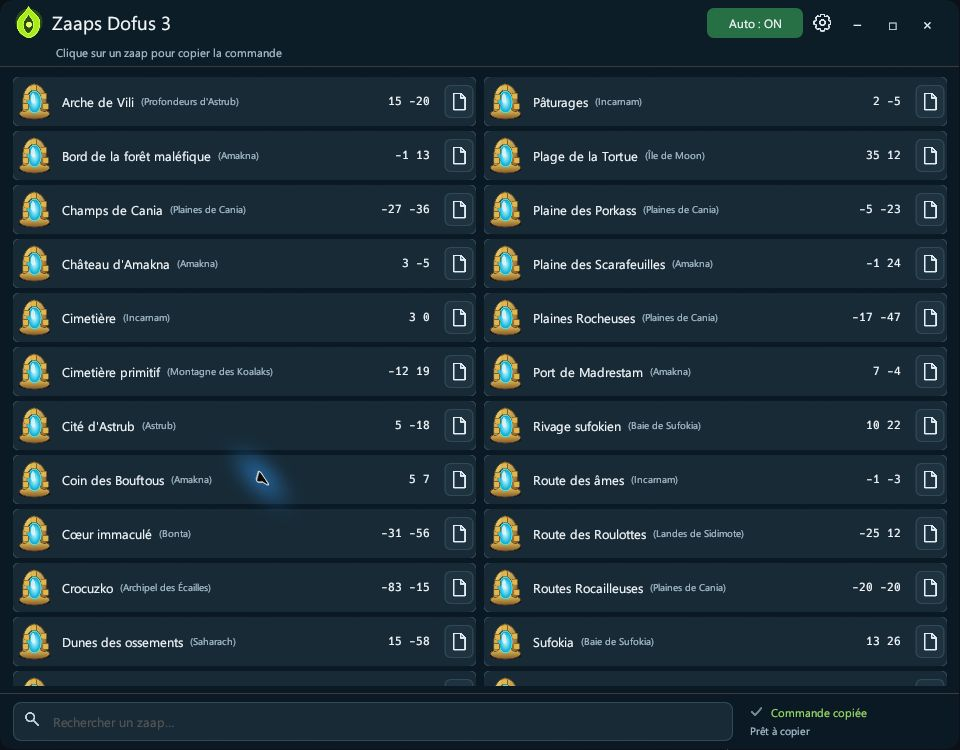
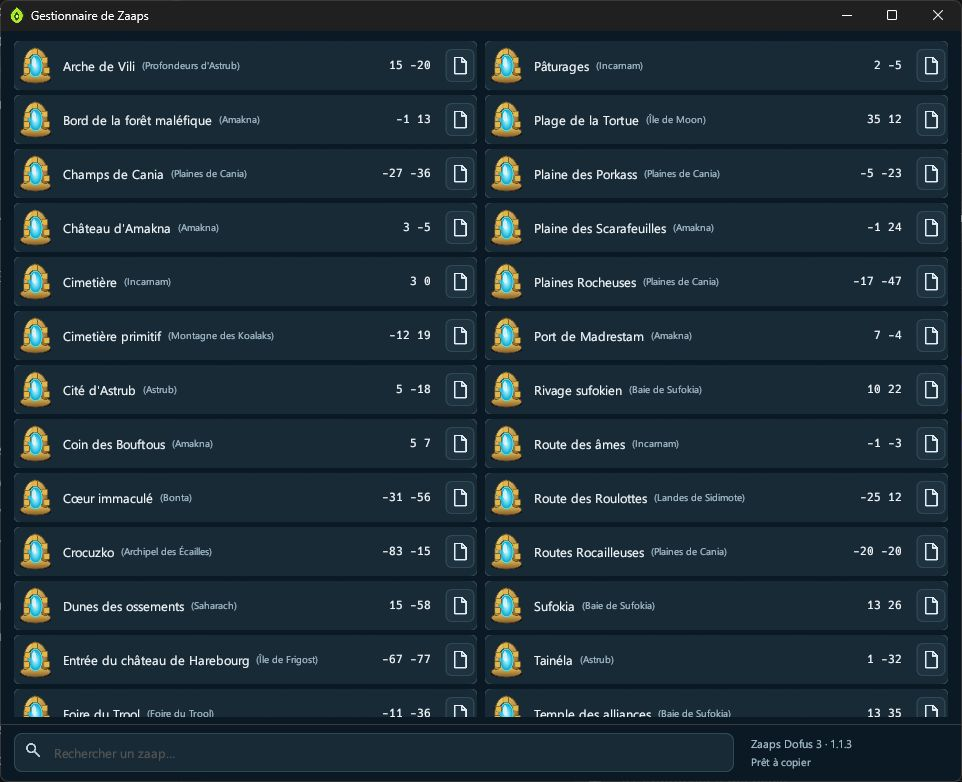
Actualiser la présentation, les captures et les guides Windows pour la version 1.1.3

diff --git a/docs/UTILISATION.md b/docs/UTILISATION.md
@@ -1,0 +1,101 @@
+# Utiliser Zaaps Dofus 3
+
+[Téléchargements Windows](https://github.com/molow159-boop/zaaps-dofus3/releases/latest) · [Présentation](../README.md) · [Compiler soi-même](COMPILATION.md)
+
+## Premier lancement
+
+1. Téléchargez **Zaaps-Dofus3-1.1.3-Windows-x64.zip** et extrayez entièrement l'archive dans le dossier de votre choix.
+2. Ouvrez Ganymède sur votre guide.
+3. Lancez **Zaaps Dofus 3.exe**. Rust n'est pas nécessaire pour utiliser cet exécutable.
+4. Vérifiez le numéro d'étape, le Zaap et la destination affichés dans le compagnon.
+5. Cliquez sur un bouton de copie, puis collez la commande dans Dofus.
+
+![Le compagnon compact et ses trois boutons de copie](../assets/screenshots/compact.jpg)
+
+Les commandes sont copiées dans le presse-papiers. Leur utilisation dans Dofus reste manuelle.
+
+## Copier le trajet de l'étape
+
+| Bouton | Raccourci par défaut | Résultat |
+| --- | --- | --- |
+| **Zaap** | **Ctrl+J** | `/zaap X,Y` pour le Zaap recommandé. |
+| **Travel** | **Ctrl+K** | `/travel X Y` vers la destination reconnue. |
+| **Trajet complet** | **Ctrl+L** | Double `/zaap`, puis `/travel` lorsqu'un Zaap réel et une destination sont disponibles. |
+
+Avec un Zaapi seul, ou des coordonnées sans Zaap, le trajet complet contient uniquement le `/travel` exploitable. Sans destination utilisable, aucune commande n'est copiée. Un bouton grisé indique que les données nécessaires ne sont pas disponibles.
+
+Pour une prochaine destination annoncée en Enutrosor, Srambad, Xélorium, Ecaflipus ou Osavora, le trajet prépare l'accès à la Tour des Voyageurs Dimensionnels :
+
+```text
+/zaap -20,-20; /zaap -20,-20; /travel -22 -24
+```
+
+## Activer la copie automatique
+
+Cliquez sur **Auto** ou utilisez **Ctrl+Shift+A**. Lorsque le bouton indique **Auto : ON**, une nouvelle étape reconnue et confirmée déclenche une seule copie du trajet disponible.
+
+L'étape présente à l'activation sert de référence : elle n'est pas copiée immédiatement. Vous pouvez toujours demander sa commande avec les boutons de copie. Une étape sans destination exploitable ne produit aucune copie.
+
+## Accrocher le compagnon à Ganymède
+
+1. Ouvrez les réglages avec l'engrenage.
+2. Cochez **Accrocher à Ganymède**.
+3. Choisissez **En haut**, **En bas**, **À gauche** ou **À droite**, puis cliquez sur **Enregistrer**.
+
+Déplacer l'une des fenêtres entraîne l'autre. Les bords visibles restent accolés. En haut et en bas, Zaaps suit la largeur de Ganymède ; redimensionnez Ganymède pour ajuster cette largeur et le bord supérieur ou inférieur de Zaaps pour sa hauteur. Sur les côtés, les fenêtres s'alignent en haut et le compagnon conserve sa taille compacte.
+
+La vue accrochée démarre à environ 225 pixels de haut. **Afficher Zaaps** ouvre le gestionnaire à part. Les réglages et le diagnostic s'ouvrent également dans leurs propres fenêtres.
+
+Pour séparer les fenêtres, décochez l'accrochage dans les réglages et enregistrez. Le côté et l'option sont mémorisés. La taille de Ganymède n'est pas modifiée par le logiciel.
+
+L'accrochage se met en pause si une fenêtre est masquée, réduite ou maximisée. S'il manque de la place à l'écran, choisissez un autre côté ou réduisez les fenêtres. Si Ganymède est trop étroit pour les commandes, élargissez-le.
+
+## Retrouver un Zaap dans la liste
+
+Cliquez sur **Afficher Zaaps** dans le compagnon accroché. Sans accrochage, **Afficher les 45 Zaaps** déplie la liste dans la fenêtre principale ; **Revenir au mode compact** la replie.
+
+![Le gestionnaire indépendant des 45 Zaaps](../assets/screenshots/interface.jpg)
+
+La recherche accepte un nom, une région ou des coordonnées. Cliquer sur une ligne ou son icône de copie prépare la commande de ce Zaap. Le nombre de colonnes s'adapte à la largeur de la fenêtre.
+
+![Recherche par nom ou région : Astrub](../assets/screenshots/recherche.jpg)
+
+Fermer le gestionnaire indépendant laisse le compagnon, les raccourcis et Auto actifs.
+
+## Personnaliser les touches et les confirmations
+
+Dans les réglages, cliquez sur une action puis appuyez sur la combinaison souhaitée. Choisissez cinq raccourcis différents, puis **Enregistrer**. **Annuler** conserve les réglages précédents.
+
+![Exemple de raccourcis personnalisés et choix de l'accrochage](../assets/screenshots/reglages-raccourcis.jpg)
+
+Les deux raccourcis supplémentaires sont **Ctrl+Shift+A** pour Auto et **Ctrl+Shift+Z** pour afficher ou masquer la fenêtre. Pendant la configuration, les raccourcis et la copie automatique sont suspendus jusqu'à la fermeture des réglages.
+
+![Options de confirmation et de démarrage](../assets/screenshots/reglages-confort.jpg)
+
+Choisissez une confirmation **visuelle**, un **son léger** ou le **silence**. Les notifications visuelles suivent les paramètres de Windows.
+
+La surveillance du presse-papiers signale lorsqu'une autre copie remplace la commande. Le logiciel ne restaure jamais une ancienne commande automatiquement : utilisez **Trajet complet** dans la vue accrochée, ou **Recopier le trajet courant** dans la vue compacte normale, pour demander les données de l'étape actuelle.
+
+## Réduire près de l'horloge
+
+Le bouton **−** masque le compagnon près de l'horloge, en gardant les raccourcis et Auto actifs. Cliquez sur l'icône pour le retrouver, ou utilisez **Ctrl+Shift+Z**. Le clic droit propose l'affichage, Auto, la copie du trajet courant et **Quitter**.
+
+Le bouton **×** de la fenêtre principale quitte complètement le logiciel. Si l'icône de notification est indisponible, la réduction passe par la barre des tâches.
+
+Le **lancement avec Windows** est facultatif et désactivé par défaut. Activez-le après avoir placé le dossier à son emplacement définitif : le logiciel démarrera réduit près de l'horloge. Après un déplacement du dossier, enregistrez à nouveau les réglages pour actualiser le chemin de démarrage.
+
+## Installer une nouvelle version
+
+La vérification de version consulte GitHub au lancement puis toutes les six heures lorsqu'elle est activée. Elle signale une nouvelle Release stable et donne son lien de téléchargement ; aucun fichier n'est installé automatiquement. Vous pouvez aussi utiliser **Vérifier la version maintenant** dans les réglages.
+
+1. Téléchargez le nouveau ZIP Windows depuis les [Releases](https://github.com/molow159-boop/zaaps-dofus3/releases/latest).
+2. Quittez l'ancien Zaaps avec **×** ou **Quitter**. Ganymède peut rester ouvert.
+3. Extrayez le nouveau dossier, puis lancez son exécutable.
+
+Les préférences restent dans `%APPDATA%\Zaaps Dofus 3\raccourcis.ini`. Si vous utilisez un `zaaps.csv` personnalisé à côté de l'exécutable, conservez-le lors du remplacement du dossier.
+
+## Signaler une difficulté
+
+Dans les réglages, **Diagnostic — aperçu avant partage** ouvre un résumé modifiable. Dans la vue normale, le bouton **Diagnostic** est aussi disponible directement. Vérifiez l'aperçu avant de le copier dans une [Issue](https://github.com/molow159-boop/zaaps-dofus3/issues).
+
+Le résumé n'inclut ni le texte complet du guide ni le contenu remplacé du presse-papiers. Aucun diagnostic n'est envoyé automatiquement.

diff --git a/README.md b/README.md
@@ -17,12 +17,20 @@
   &nbsp; · &nbsp;
   <a href="#prise-en-main">Prise en main</a>
   &nbsp; · &nbsp;
+  <a href="docs/UTILISATION.md">Guide d'utilisation</a>
+  &nbsp; · &nbsp;
+  <a href="docs/COMPILATION.md">Compiler soi-même</a>
+  &nbsp; · &nbsp;
   <a href="https://github.com/molow159-boop/zaaps-dofus3/issues">Signaler un problème</a>
 </p>
 
 Retrouvez un zaap, préparez votre déplacement et copiez votre trajet sans ressaisir les coordonnées. **Zaaps Dofus 3** est un utilitaire portable en Rust pour **Windows 10/11 x64**, conçu pour accompagner les étapes affichées dans **Ganymède**.
 
-![Interface de Zaaps Dofus 3 : liste des zaaps et mode automatique activé](assets/screenshots/interface.jpg)
+<p align="center">
+  <img src="assets/screenshots/compact.jpg" alt="Vue compacte : étape reconnue, Zaap de Pandala, destination et boutons de copie" width="414">
+</p>
+
+Le compagnon reste discret à côté de Ganymède. **Afficher Zaaps** ouvre le gestionnaire dans une fenêtre séparée ; l'engrenage donne accès aux réglages.
 
 ## L'essentiel, dans une seule fenêtre
 
@@ -31,7 +39,7 @@ Retrouvez un zaap, préparez votre déplacement et copiez votre trajet sans ress
 | **45 zaaps intégrés** | Parcourez la liste et copiez une commande en un clic. |
 | **Recherche immédiate** | Retrouvez un zaap par son nom ou sa région. |
 | **Trajets Ganymède** | Récupérez le Zaap recommandé et les coordonnées de destination. |
-| **Cinq raccourcis configurables** | Choisissez vos touches pour le Zaap, le voyage et le trajet complet. |
+| **Cinq raccourcis configurables** | Choisissez vos touches pour les trois copies, Auto et l'affichage de la fenêtre. |
 | **Mode automatique** | Copiez une fois le trajet à chaque nouvelle étape reconnue. |
 | **Interface adaptable** | Redimensionnez librement la fenêtre ; les colonnes s'ajustent à sa largeur. |
 | **Mode compact mémorisé** | Gardez seulement l'étape, le trajet et les boutons de copie ; dépliez la liste au besoin. |
@@ -42,10 +50,15 @@ Retrouvez un zaap, préparez votre déplacement et copiez votre trajet sans ress
 
 ## En images
 
-| Recherche rapide | Raccourcis personnalisables |
+| Gestionnaire indépendant | Recherche rapide |
 | :---: | :---: |
-| [![Recherche des zaaps liés à Astrub](assets/screenshots/recherche.jpg)](assets/screenshots/recherche.jpg) | [![Réglages des trois raccourcis Ganymède](assets/screenshots/raccourcis.jpg)](assets/screenshots/raccourcis.jpg) |
-| Un nom ou une région suffit pour filtrer la liste. | Ctrl+J, Ctrl+K et Ctrl+L par défaut, modifiables dans les réglages. |
+| [![Gestionnaire des 45 Zaaps, version 1.1.3](assets/screenshots/interface.jpg)](assets/screenshots/interface.jpg) | [![Recherche des Zaaps liés à Astrub](assets/screenshots/recherche.jpg)](assets/screenshots/recherche.jpg) |
+| La liste complète s'ouvre sans agrandir le compagnon accroché. | Filtrez par nom, région ou coordonnées. |
+
+| Raccourcis et accrochage | Options de confort |
+| :---: | :---: |
+| [![Cinq raccourcis personnalisables et choix du côté d'accrochage](assets/screenshots/reglages-raccourcis.jpg)](assets/screenshots/reglages-raccourcis.jpg) | [![Son, presse-papiers, démarrage Windows et nouvelles versions](assets/screenshots/reglages-confort.jpg)](assets/screenshots/reglages-confort.jpg) |
+| Exemple de touches personnalisées ; les raccourcis par défaut figurent ci-dessous. | Choisissez les confirmations et les fonctions à activer. |
 
 ## Prise en main
 
@@ -53,7 +66,11 @@ Retrouvez un zaap, préparez votre déplacement et copiez votre trajet sans ress
 2. Ouvrez Ganymède sur votre guide, puis lancez **Zaaps Dofus 3.exe**.
 3. Cliquez sur un zaap ou utilisez un raccourci, puis collez la commande dans Dofus.
 
+Pour garder le compagnon au premier plan de votre guide, ouvrez l'engrenage, activez **Accrocher à Ganymède**, choisissez le côté et enregistrez. Le bouton **Afficher Zaaps** reste disponible pour retrouver la liste.
+
 **Aucune installation de Rust n'est nécessaire.** Le logiciel copie les commandes dans le presse-papiers ; vous gardez la main sur leur utilisation dans Dofus.
+
+Le [guide d'utilisation](docs/UTILISATION.md) détaille les boutons, l'accrochage, Auto, les réglages et les mises à jour. Les **sources complètes** sont consultables ici dans le dépôt et disponibles dans **Zaaps-Dofus3-1.1.3-Sources.zip** sur la Release.
 
 ## Vos raccourcis
 
@@ -69,7 +86,7 @@ Ouvrez les réglages avec l'icône d'engrenage pour personnaliser les touches. V
 
 ## Une présence discrète pendant vos guides
 
-La vue compacte affiche le numéro d'étape reconnu, le Zaap et la destination. Les boutons **Zaap**, **Travel** et **Trajet complet** utilisent les mêmes données vérifiées que les raccourcis. **Afficher les 45 Zaaps** ouvre le gestionnaire avec sa recherche ; **Revenir au mode compact** replie la liste. Le mode choisi est mémorisé.
+La vue compacte affiche le numéro d'étape reconnu, le Zaap et la destination. Les boutons **Zaap**, **Travel** et **Trajet complet** utilisent les mêmes données vérifiées que les raccourcis. Sans accrochage, **Afficher les 45 Zaaps** déplie la liste avec sa recherche ; **Revenir au mode compact** la replie. Le mode choisi est mémorisé.
 
 Pour réunir les deux fenêtres, cochez **Accrocher à Ganymède** et choisissez **En haut**, **En bas**, **À gauche** ou **À droite**. Le côté décrit la position de Zaaps par rapport à Ganymède. Déplacer l'une déplace l'autre ; les bords visibles restent accolés, sans l'espace des bordures invisibles de Windows. En haut et en bas, Zaaps prend automatiquement la largeur de Ganymède : redimensionnez Ganymède pour ajuster cette largeur et les bords de Zaaps pour sa hauteur. Sur les côtés, le haut des fenêtres est aligné et Zaaps conserve sa taille compacte. La taille de Ganymède n'est pas modifiée par l'accrochage. L'option et le côté sont mémorisés ; décochez l'option pour séparer les fenêtres.
 
@@ -124,8 +141,7 @@ L'exécutable n'est pas signé numériquement. Le fichier `SHA256.txt` de la Rel
 
 </details>
 
-<details>
-<summary><strong>Compiler depuis les sources</strong></summary>
+## Compiler depuis les sources
 
 Prérequis : **Rust 1.99.1**, cible `x86_64-pc-windows-msvc`, Visual Studio Build Tools C++ et Windows SDK. Conservez le fichier `Cargo.lock` fourni.
 
@@ -138,7 +154,7 @@ cargo build --release --locked
 
 Exécutable produit : `target\release\zaaps-dofus3.exe`.
 
-</details>
+Consultez le [tuto de compilation Windows](docs/COMPILATION.md) pour installer les prérequis et compiler pas à pas.
 
 ## Participer
 

diff --git a/docs/COMPILATION.md b/docs/COMPILATION.md
@@ -1,0 +1,57 @@
+# Compiler sous Windows
+
+[Présentation](../README.md) · [Guide d'utilisation](UTILISATION.md) · [Téléchargements](https://github.com/molow159-boop/zaaps-dofus3/releases/latest)
+
+Pour utiliser le logiciel directement, prenez le ZIP **Windows-x64** de la Release. Ce tuto sert à produire votre propre exécutable à partir des sources Rust.
+
+## 1. Installer les outils
+
+- **Windows 10 ou 11 x64**.
+- [Visual Studio Build Tools](https://visualstudio.microsoft.com/downloads/#build-tools-for-visual-studio) : sélectionnez **Développement Desktop en C++**, avec les outils MSVC x64 et un Windows SDK.
+- [Rust avec rustup](https://rustup.rs/) : utilisez la chaîne Windows MSVC.
+
+Après l'installation, ouvrez une nouvelle fenêtre PowerShell. Le projet fixe Rust **1.99.1** dans `rust-toolchain.toml` ; rustup utilise cette version lorsque vous entrez dans le dossier.
+
+## 2. Récupérer le projet complet
+
+Téléchargez **Zaaps-Dofus3-1.1.3-Sources.zip** depuis la [Release](https://github.com/molow159-boop/zaaps-dofus3/releases/latest) et extrayez-le. Vous pouvez aussi utiliser **Code → Download ZIP** sur la page du dépôt, ou cloner le dépôt avec Git :
+
+```powershell
+git clone https://github.com/molow159-boop/zaaps-dofus3.git
+cd zaaps-dofus3
+```
+
+Ouvrez PowerShell dans le dossier qui contient `Cargo.toml`, `Cargo.lock`, `build.rs`, `src` et `assets`. Conservez les ressources graphiques et le fichier `Cargo.lock` fournis.
+
+## 3. Installer la chaîne et compiler
+
+```powershell
+rustup toolchain install 1.99.1 --profile minimal --component rustfmt --component clippy
+rustup target add x86_64-pc-windows-msvc --toolchain 1.99.1
+cargo fmt --all -- --check
+cargo clippy --all-targets --locked -- -D warnings
+cargo test --release --locked
+cargo build --release --locked
+```
+
+Le premier lancement télécharge les dépendances et peut prendre plusieurs minutes. Les compilations suivantes réutilisent le cache local.
+
+L'exécutable se trouve ensuite dans :
+
+```text
+target\release\zaaps-dofus3.exe
+```
+
+Vous pouvez le copier dans un autre dossier et le renommer **Zaaps Dofus 3.exe**. Les ressources et les 45 Zaaps sont intégrés. Rust n'est pas nécessaire sur le poste qui utilisera l'exécutable.
+
+## Si la compilation s'arrête
+
+| Message ou situation | À vérifier |
+| --- | --- |
+| `cargo` ou `rustup` introuvable | Rouvrez PowerShell après l'installation de Rust. |
+| `link.exe` ou Windows SDK introuvable | Ajoutez les outils MSVC x64 et le SDK dans Visual Studio Build Tools. |
+| Ressource `assets/...` manquante | Extrayez l'archive complète ; ne copiez pas seulement le dossier `src`. |
+| Téléchargement des dépendances impossible | Vérifiez la connexion Internet et relancez la même commande. |
+| Fichier EXE impossible à remplacer | Fermez l'instance de Zaaps qui utilise cet exécutable. |
+
+Les essais Windows natifs, séparés de la suite automatique, sont décrits dans [CONTRIBUTING.md](../CONTRIBUTING.md). Ils nécessitent un poste de test et peuvent remplacer le contenu du presse-papiers.

diff --git a/CONTRIBUTING.md b/CONTRIBUTING.md
@@ -13,7 +13,7 @@ cargo build --release --locked
 
 Signaler les régressions de lecture Ganymède, le mode automatique, les Zaapis, les raccourcis et le redimensionnement. Ajouter un test de non-régression quand un bug est corrigé. Ne pas joindre de données personnelles dans les logs ou captures.
 
-Les essais Windows natifs sont séparés des tests automatiques : ils utilisent un bureau interactif, une fenêtre temporaire, le presse-papiers réel et une connexion HTTPS à GitHub. Pour les lancer sur un poste de test :
+Les essais Windows natifs sont séparés des tests automatiques. Ils vérifient l'icône de notification, le presse-papiers réel, la connexion HTTPS à GitHub et les limites des fenêtres. Le test de détection Ganymède attend une seule fenêtre principale de Ganymède ouverte ; le test de géométrie utilise deux fenêtres de test invisibles. Pour les lancer sur un poste de test avec un bureau interactif et une connexion Internet :
 
 ```powershell
 cargo test --release --locked native_ -- --ignored --test-threads=1
